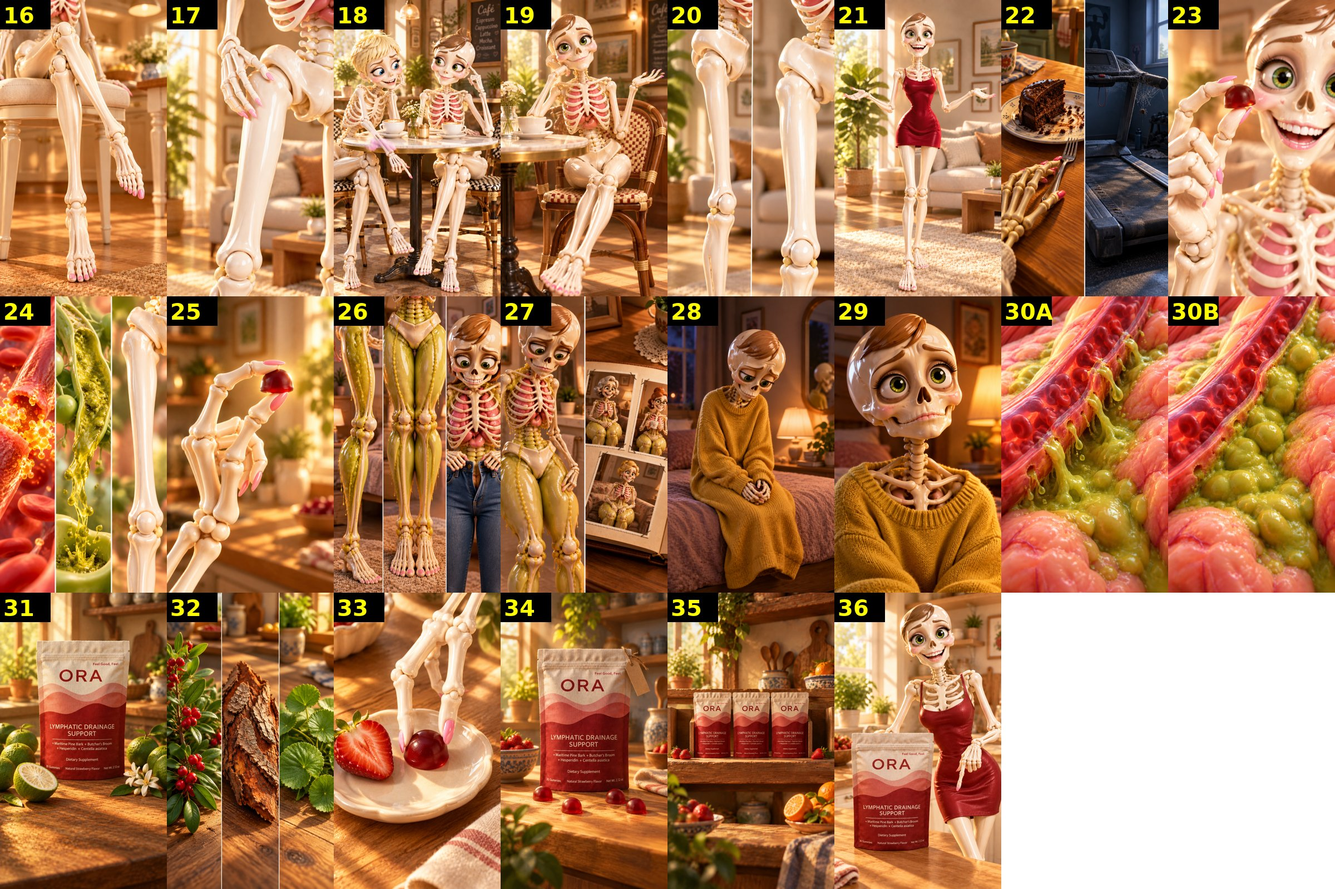
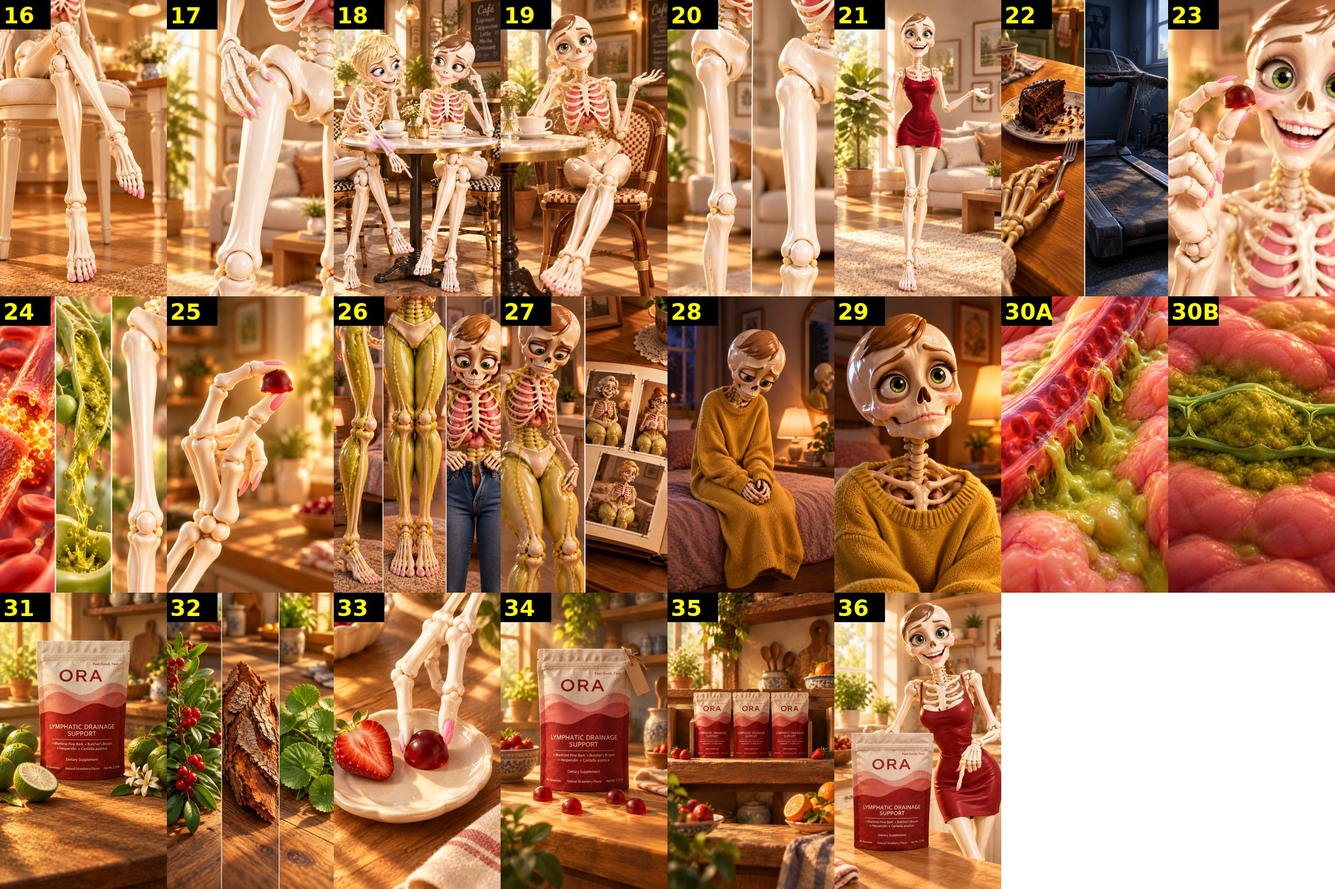
Skeleton legs: redo frames 8, 11, 30B
Claude-Session: https://claude.ai/code/session_01B91YnQnevLKqPhwBUBVUWL

Changed region(s): [[0.875, 0.3064, 1.0, 0.6742]]

diff --git a/projects/ora-skeleton-legs/shots.md b/projects/ora-skeleton-legs/shots.md
@@ -13,10 +13,10 @@ Model gpt_image_2_5, 9:16. Shots 2, 4, 5 reuse old frames 2, 3, 4. Frame 26 was 
 | 5 | 92ca98f5-da40-47a7-8206-2b31a59ac3a3 |
 | 6 | 23787c32-bcf8-4ba4-9276-a259a6051c4d |
 | 7 | 63802bdf-1267-408d-b012-5ede0e0a0160 |
-| 8 | 0502c967-d307-404d-91eb-b5fe3f94d728 |
+| 8 | 2b61001a-5df2-4eca-9968-19a1e332c67a (redo: legs/toes fixed) |
 | 9 | 80a33ffb-bca2-480d-a3f9-afe1b0ff7776 |
 | 10 | 2f3c8262-4b7a-4428-9683-06634774197b |
-| 11 | 33afea6b-a395-4de8-ba62-a83d9969338c |
+| 11 | cb2e398d-5099-4eac-9d9d-54287cbf80e7 (redo: different from 10) |
 | 12 | 4e56732b-8941-4da5-b7a0-5f9d3def29f8 |
 | 13 | 42eee4ee-c871-410c-9069-c5f974adf59a |
 | 14 | 13b0ab5c-d20d-4753-a29c-cdf3199cd35e |
@@ -36,7 +36,7 @@ Model gpt_image_2_5, 9:16. Shots 2, 4, 5 reuse old frames 2, 3, 4. Frame 26 was 
 | 28 | 3286eb63-69f0-4995-8ee9-43388359c784 |
 | 29 | c6869cfd-62f0-4f64-ab22-955f84390ffe |
 | 30A | fa5321ae-e071-4bd6-9dff-ba54e67a07e6 |
-| 30B | e6c176ac-d3dc-41f3-9886-0b8992dbce21 |
+| 30B | 433a33c1-e175-49d4-970d-41f57334db83 (redo: different from 30A) |
 | 31 | 6be0279c-c6cb-4286-83db-11ca1d976e3f |
 | 32 | 0eec8a31-a860-49c8-b4b8-c1c628cafa3d |
 | 33 | 2f51d065-bb1b-44b0-b4d1-4733c230159b |
